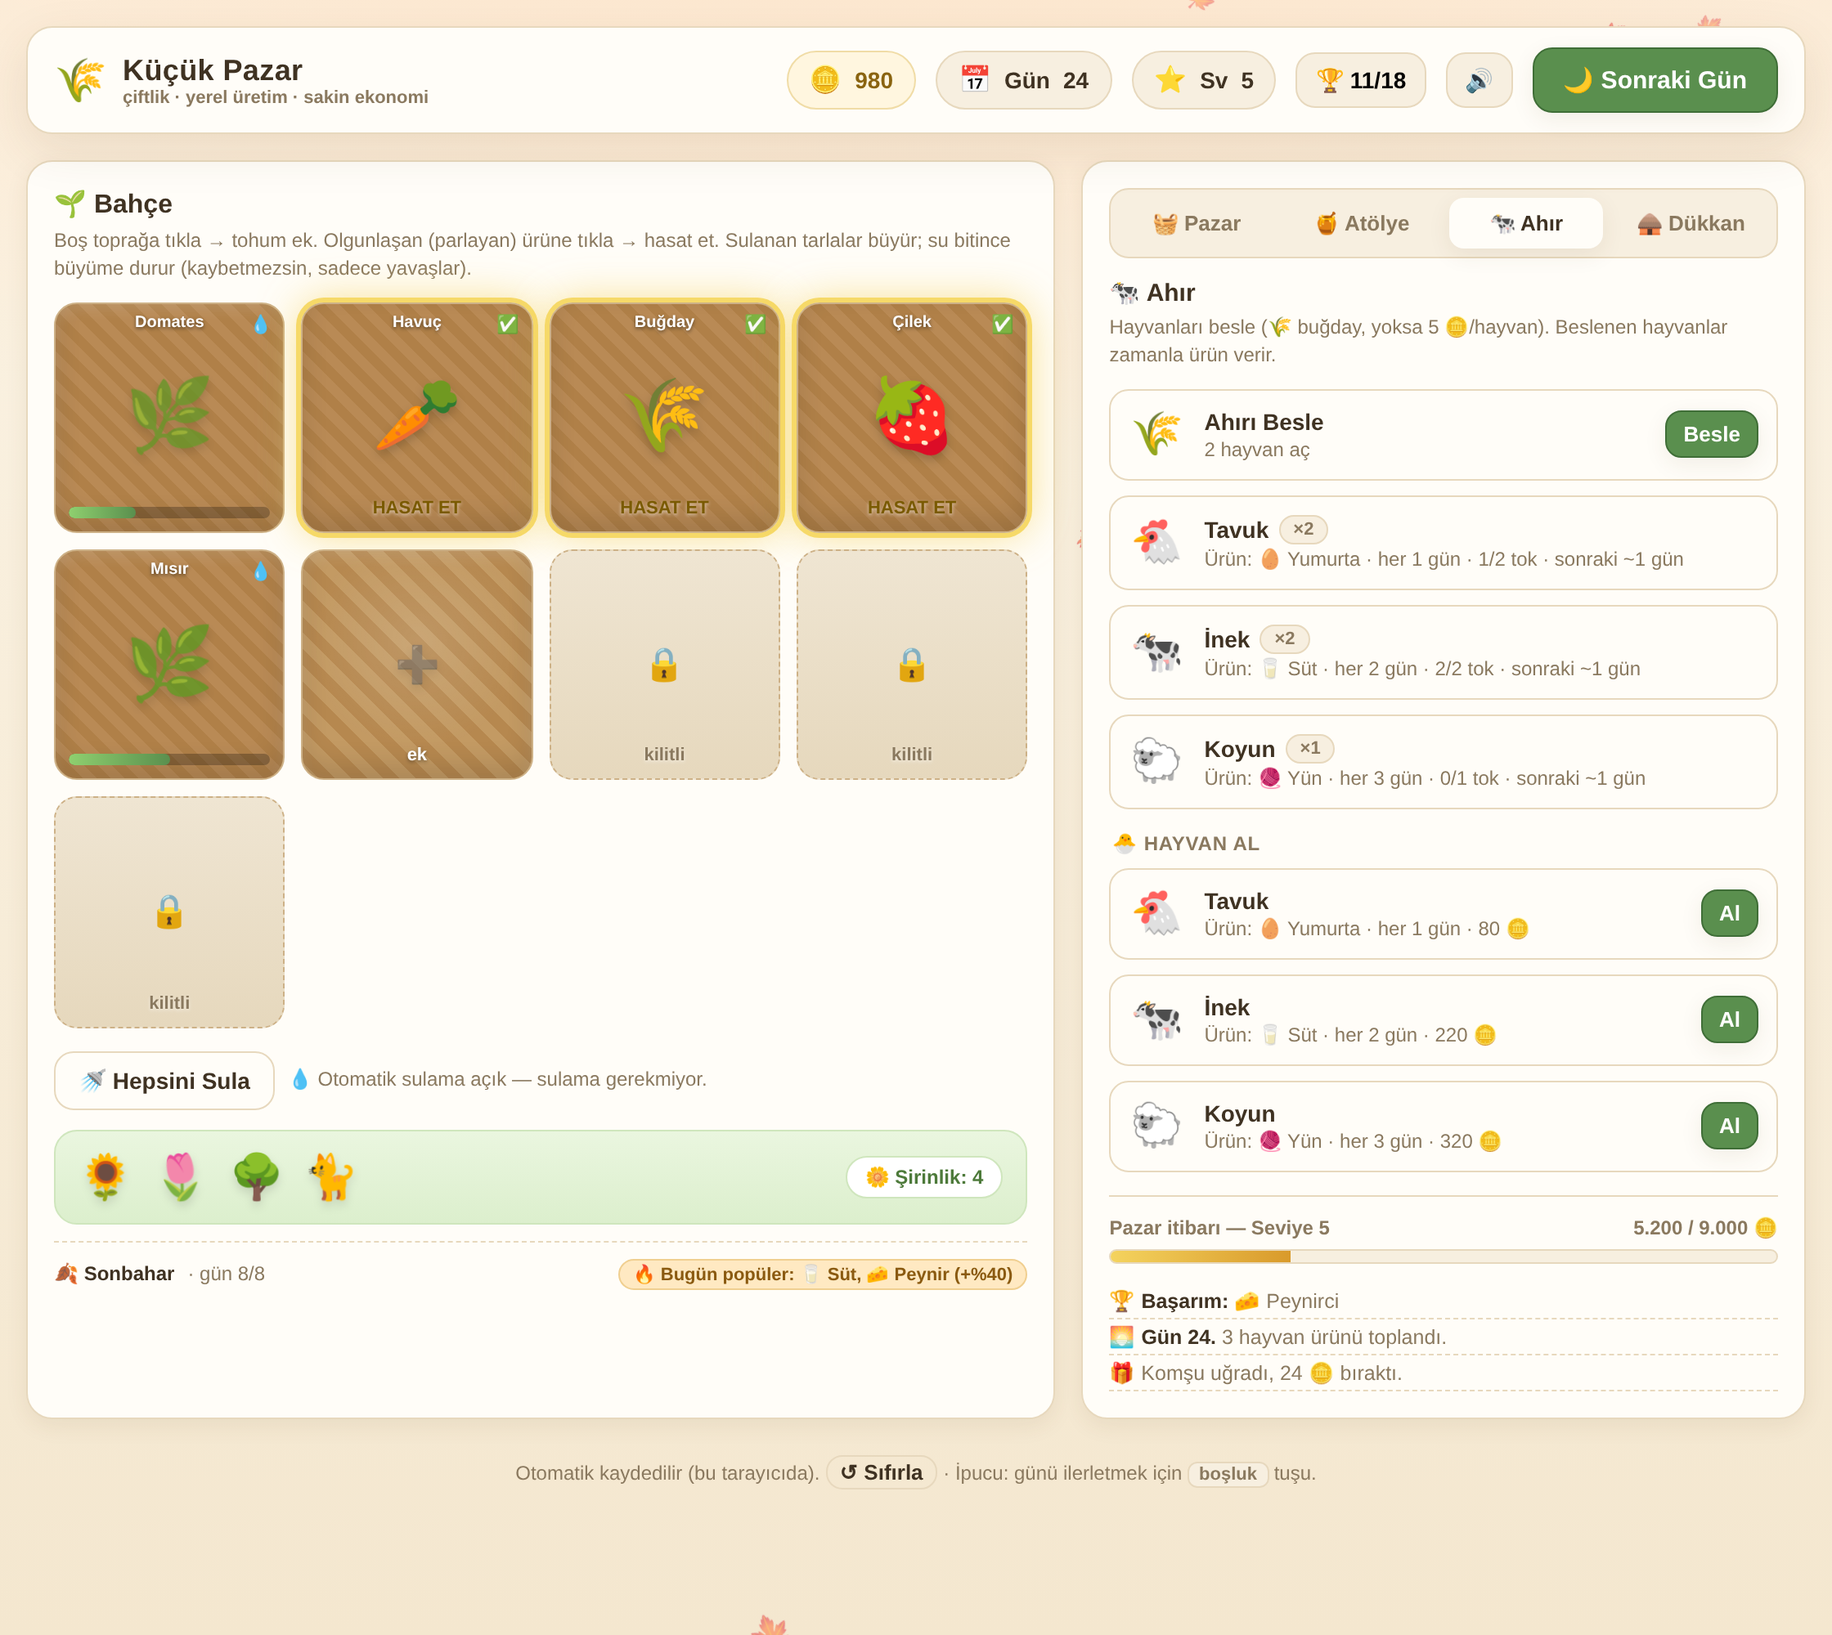
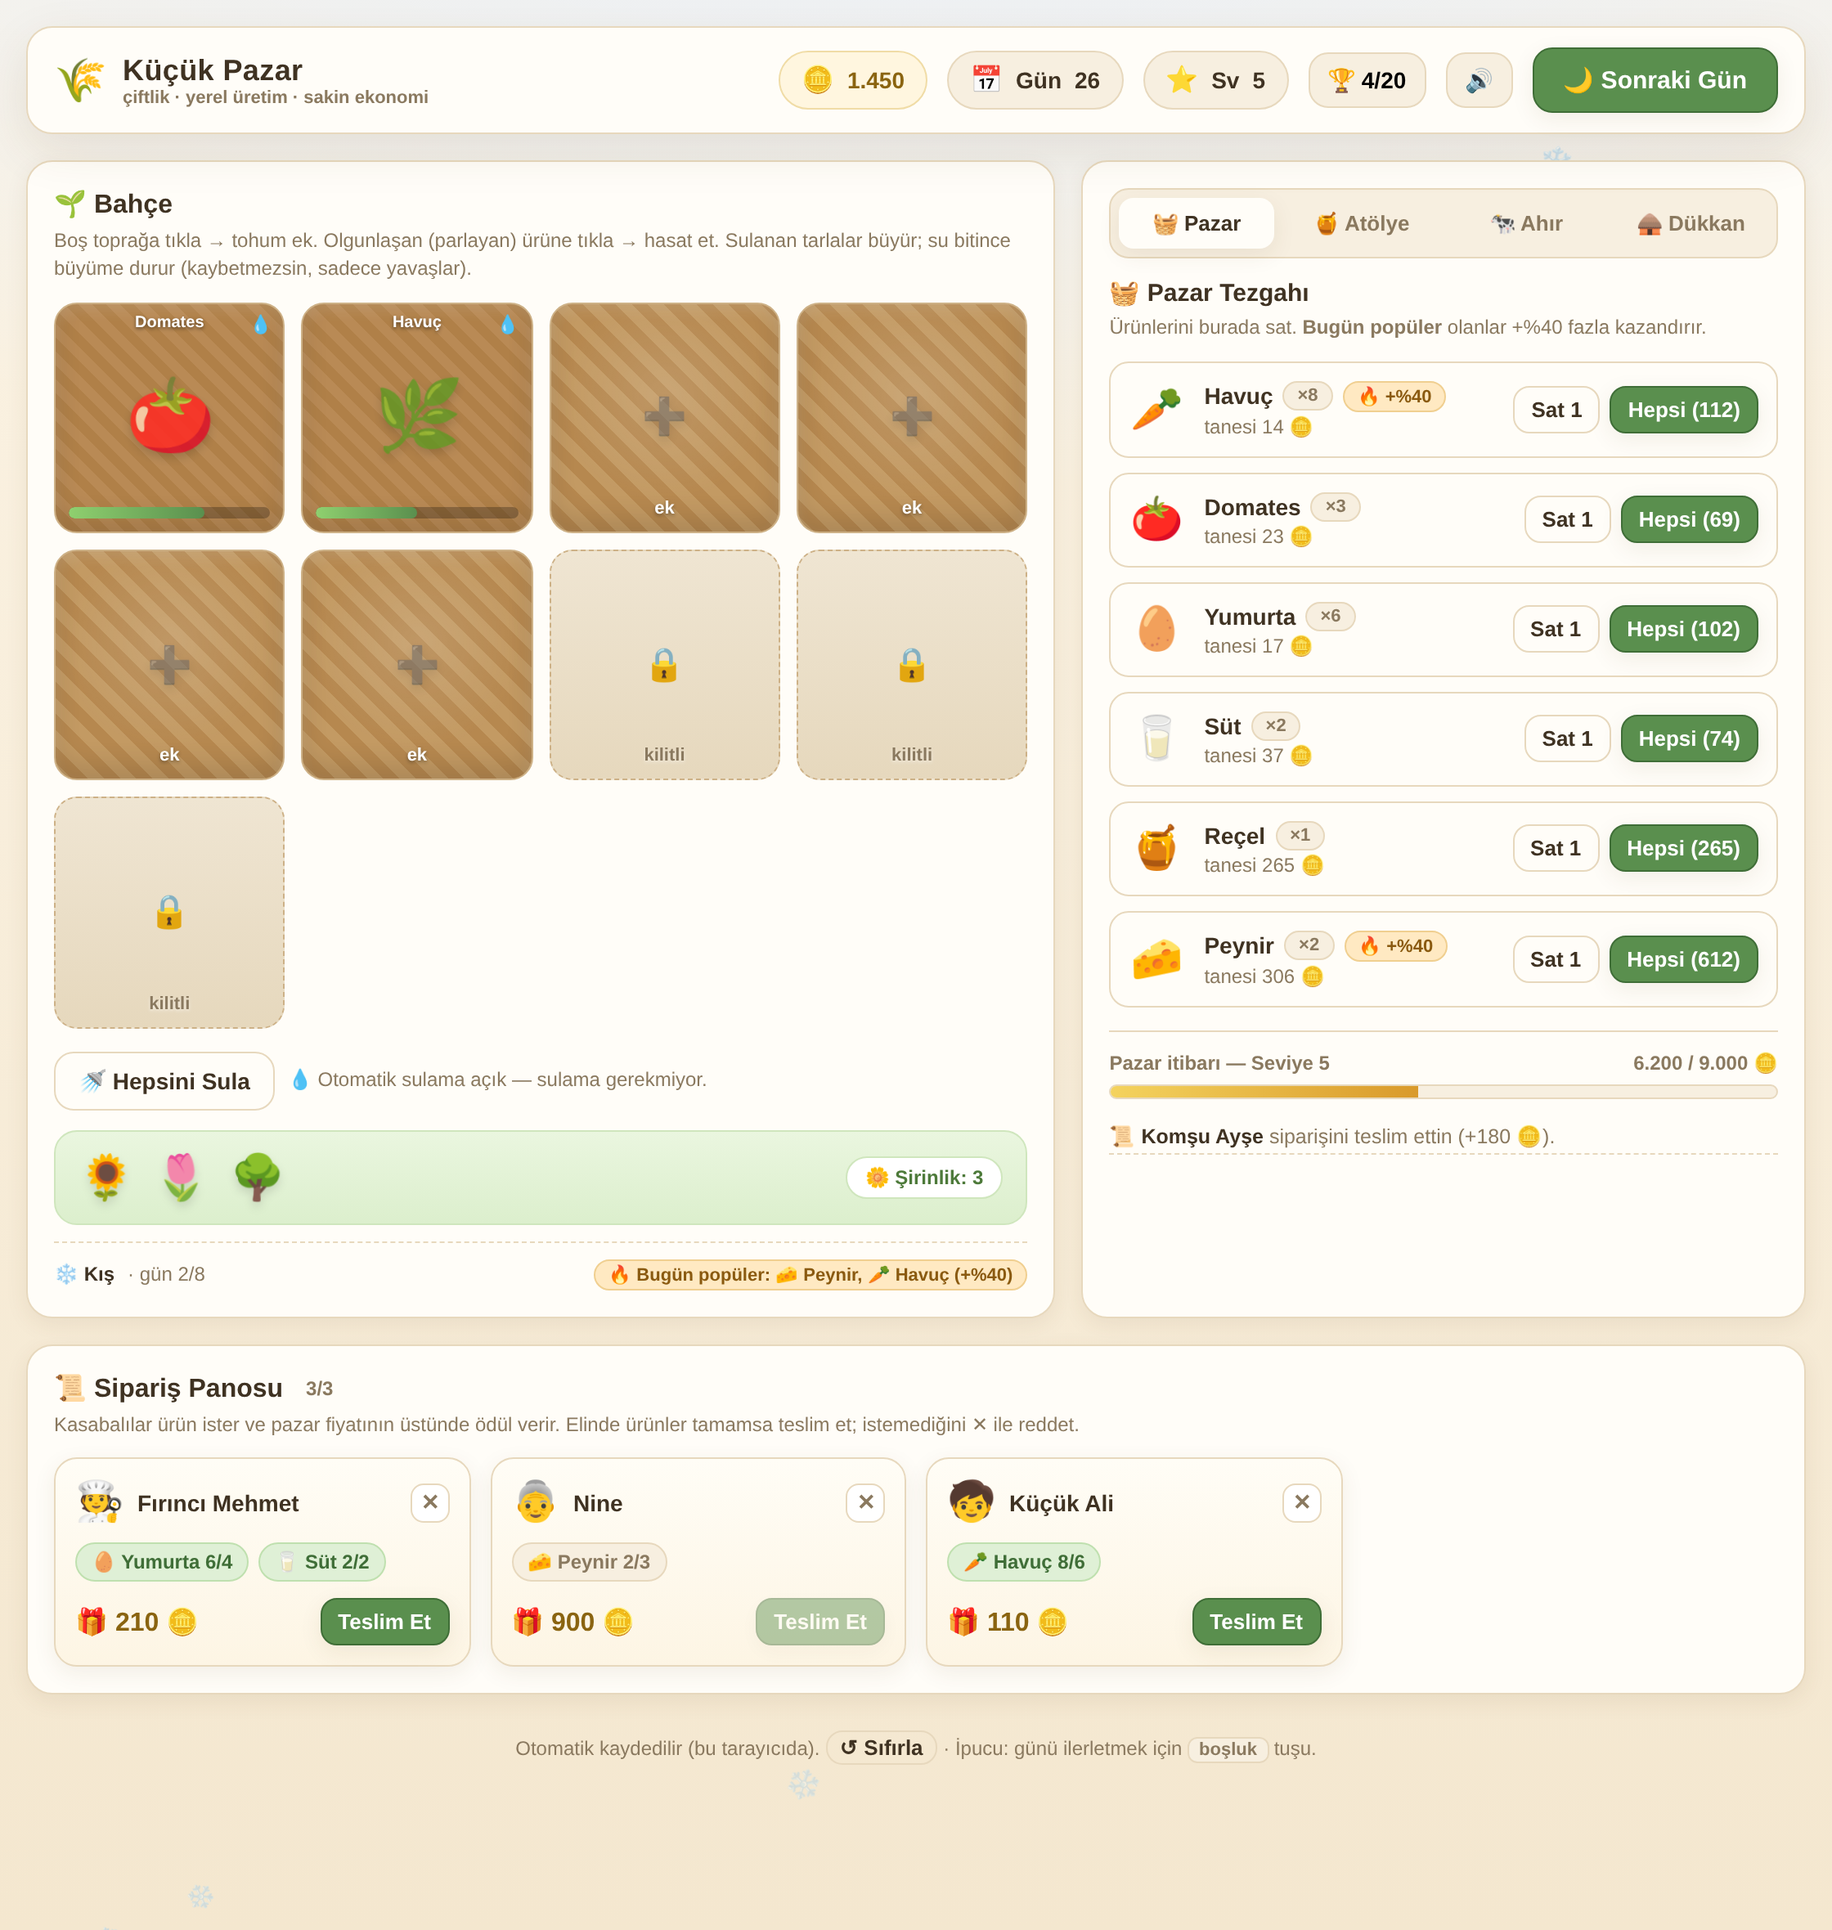
Add order board (town customers) to Küçük Pazar
New "📜 Sipariş Panosu" full-width panel that gives the game a goal loop:
- Townsfolk (baker, grandma, kid...) request 1-2 item types and pay ~1.5x
  market value; orders reference only items the player can currently produce
  (unlocked crops, animal products if barn, goods if kitchen)
- Fulfil when inventory covers the request (item chips turn green live);
  reward counts toward totalEarned so it feeds leveling
- Dismiss (✕) any unwanted order so the board never deadlocks; cap of 3 active
- New orders arrive on day advance (chance-based); one order seeded at start
- No timers, no penalty — cozy, pressure-free
- 2 new achievements (first order, 10 orders) → 20 total; save schema extended
  and normalized for backward compatibility

Smoke-tested end-to-end with Playwright (fill pays exact reward, dismiss,
cap-at-3, achievement unlock); basic/polish/barn flows re-verified, no errors.

Claude-Session: https://claude.ai/code/session_01JLhaX9PDeoKavNPVgfyLYf

diff --git a/cozy-farm-market/index.html b/cozy-farm-market/index.html
@@ -203,6 +203,22 @@
   .ach .at{ font-weight:800; font-size:13px; }
   .ach .ad{ font-size:11.5px; color:var(--muted); margin-top:1px; }
 
+  /* Order board */
+  .orders h2 .ocount{ font-size:12px; color:var(--muted); font-weight:800; margin-left:6px; }
+  .ogrid{ display:grid; grid-template-columns:repeat(auto-fill,minmax(230px,1fr)); gap:12px; }
+  .ocard{ border:1px solid var(--line); border-radius:14px; background:linear-gradient(180deg,#fffdf6,#fdf5e4); padding:12px; box-shadow:var(--shadow2); display:flex; flex-direction:column; gap:10px; }
+  .ohead{ display:flex; align-items:center; gap:8px; }
+  .ohead .oemoji{ font-size:24px; }
+  .ohead .oname{ font-weight:900; font-size:14px; }
+  .ohead .odismiss{ margin-left:auto; border:1px solid var(--line); background:#fff; border-radius:8px; width:24px; height:24px; cursor:pointer; font-weight:900; color:var(--muted); line-height:1; }
+  .ohead .odismiss:hover{ background:var(--soft); color:var(--ink); }
+  .oitems{ display:flex; flex-wrap:wrap; gap:6px; }
+  .oitem{ font-size:12px; font-weight:800; padding:4px 9px; border-radius:999px; background:var(--soft); border:1px solid var(--line); color:var(--muted); }
+  .oitem.ok{ background:#dff0d6; border-color:#bfe0af; color:#3f6e37; }
+  .ofoot{ display:flex; align-items:center; gap:8px; margin-top:auto; }
+  .oreward{ font-weight:900; color:#8a6410; }
+  .ofoot .btn{ margin-left:auto; }
+
   /* Modal */
   .scrim{ position:fixed; inset:0; background:rgba(60,40,15,.45); backdrop-filter:blur(3px); display:none; align-items:center; justify-content:center; z-index:60; padding:16px; }
   .scrim.on{ display:flex; }
@@ -301,6 +317,8 @@
     </div>
   </div>
 
+  <div class="panel orders" id="ordersPanel" style="margin-top:16px;"></div>
+
   <div class="foot">
     Otomatik kaydedilir (bu tarayıcıda). <button class="btn ghost small" id="resetBtn" style="padding:2px 8px;">↺ Sıfırla</button>
     · İpucu: günü ilerletmek için <span class="kbd">boşluk</span> tuşu.
@@ -355,6 +373,19 @@
     sheep:   { name:"Koyun", emoji:"🐑", cost:320, lvl:4, interval:3, prod:"wool" },
   };
 
+  // Sipariş panosu için kasabalılar
+  const CUSTOMERS = [
+    { name:"Komşu Ayşe",     emoji:"👩🌾" },
+    { name:"Fırıncı Mehmet", emoji:"🧑🍳" },
+    { name:"Nine",           emoji:"👵" },
+    { name:"Küçük Ali",      emoji:"🧒" },
+    { name:"Öğretmen",       emoji:"🧑🏫" },
+    { name:"Ressam",         emoji:"🧑🎨" },
+    { name:"Pazarcı Hasan",  emoji:"🧔" },
+    { name:"Doktor",         emoji:"🧑⚕" },
+  ];
+  const MAX_ORDERS = 3;
+
   const SEASONS = [
     { name:"İlkbahar", emoji:"🌷", p:"🌸" },
     { name:"Yaz",      emoji:"☀", p:"🦋" },
@@ -404,6 +435,8 @@
     { id:"barn1",     e:"🐄", t:"Ahır Sahibi",     d:"İlk hayvanını al",                 c:s=>s.animals.length>=1 },
     { id:"cheese",    e:"🧀", t:"Peynirci",        d:"Peynir üret",                      c:s=>!!s.stats.madeGoods.cheese },
     { id:"fullbarn",  e:"🐑", t:"Küçük Çiftlik",   d:"Her hayvandan en az bir tane al",  c:s=>Object.keys(ANIMALS).every(t=>s.animals.some(a=>a.type===t)) },
+    { id:"order1",    e:"📜", t:"İlk Sipariş",     d:"Bir kasaba siparişini teslim et",  c:s=>s.stats.ordersFilled>=1 },
+    { id:"order10",   e:"🛎", t:"Güvenilir Tedarikçi", d:"10 sipariş teslim et",         c:s=>s.stats.ordersFilled>=10 },
     { id:"allup",     e:"🏆", t:"Tam Donanım",     d:"Tüm yükseltmeleri al",             c:s=>Object.keys(UPGRADES).every(k=>s.up[k]) },
     { id:"earn20000", e:"👑", t:"Pazar Kralı",     d:"Toplam 20.000 altın kazan",        c:s=>s.totalEarned>=20000 },
   ];
@@ -417,14 +450,14 @@
     for (let i=0;i<9;i++) plots.push(newPlot(i<3));
     return {
       day:1, coins:55, totalEarned:0,
-      plots, crops:{}, goods:{}, jobs:[], animals:[],
+      plots, crops:{}, goods:{}, jobs:[], animals:[], orders:[],
       up:{ kitchen:false, sprinkler:false, stall:false, barn:false, autofeed:false, winery:false },
       plotCost:PLOT_BASE,
       popular:[], log:[], seenLevel:1,
       muted:false,
       decor:{},
       achieved:{},
-      stats:{ planted:0, harvested:0, sold:0, processed:0, harvestedTypes:{}, madeGoods:{} },
+      stats:{ planted:0, harvested:0, sold:0, processed:0, ordersFilled:0, harvestedTypes:{}, madeGoods:{} },
     };
   }
 
@@ -432,6 +465,7 @@
     s.decor = s.decor || {};
     s.achieved = s.achieved || {};
     s.animals = Array.isArray(s.animals) ? s.animals : [];
+    s.orders = Array.isArray(s.orders) ? s.orders : [];
     s.up = s.up || {};
     s.muted = !!s.muted;
     s.stats = s.stats || {};
@@ -439,6 +473,7 @@
     s.stats.harvested = s.stats.harvested||0;
     s.stats.sold = s.stats.sold||0;
     s.stats.processed = s.stats.processed||0;
+    s.stats.ordersFilled = s.stats.ordersFilled||0;
     s.stats.harvestedTypes = s.stats.harvestedTypes||{};
     s.stats.madeGoods = s.stats.madeGoods||{};
     return s;
@@ -718,6 +753,55 @@
     render(); save();
   }
 
+  // ---- Siparişler ----
+  function orderPool(){
+    const lvl = level(); const arr=[];
+    for(const id in CROPS) if(CROPS[id].lvl<=lvl) arr.push(id);
+    if(S.up.barn) for(const id in APROD) arr.push(id);
+    if(S.up.kitchen) for(const id in GOODS){ const g=GOODS[id]; if(g.lvl<=lvl && (!g.premium||S.up.winery)) arr.push(id); }
+    return arr;
+  }
+  function makeOrder(){
+    const pool = orderPool();
+    if(!pool.length) return null;
+    const want = (pool.length>=4 && Math.random()<0.5) ? 2 : 1;
+    const items=[], used={};
+    for(let i=0;i<want;i++){
+      let id, guard=0;
+      do{ id=pick(pool); guard++; } while(used[id] && guard<12);
+      if(used[id]) continue;
+      used[id]=true;
+      const val = infoOf(id).sell;
+      let qty = Math.round((Math.random()*2+2) * (val<40?1.5 : val<120?1 : 0.5));
+      qty = Math.max(2, Math.min(qty, 8));
+      items.push({ id:id, qty:qty });
+    }
+    const base = items.reduce((a,it)=> a + infoOf(it.id).sell*it.qty, 0);
+    const reward = Math.round(base*1.5) + 20;
+    return { id:"o"+Math.random().toString(36).slice(2,9), cust:pick(CUSTOMERS), items:items, reward:reward, day:S.day };
+  }
+  function canFill(o){ return o.items.every(it => (invBag(it.id)[it.id]||0) >= it.qty); }
+  function fillOrder(oid){
+    const idx = S.orders.findIndex(o=>o.id===oid); if(idx<0) return;
+    const o = S.orders[idx];
+    if(!canFill(o)){ toast("Elinde yeterli ürün yok"); return; }
+    for(const it of o.items){ const bag=invBag(it.id); bag[it.id]-=it.qty; if(bag[it.id]<=0) delete bag[it.id]; }
+    S.coins += o.reward; S.totalEarned += o.reward;
+    S.stats.ordersFilled = (S.stats.ordersFilled||0)+1;
+    S.orders.splice(idx,1);
+    SFX.coin(); celebrate(); bumpCoins();
+    addLog("📜 <b>"+o.cust.name+"</b> siparişini teslim ettin (+"+fmt(o.reward)+" 🪙).");
+    toast("📜 Sipariş tamam! +"+fmt(o.reward)+" 🪙", "gold");
+    checkLevel(); checkAchievements();
+    render(); save();
+  }
+  function dismissOrder(oid){
+    const idx = S.orders.findIndex(o=>o.id===oid); if(idx<0) return;
+    S.orders.splice(idx,1);
+    render(); save();
+    toast("Sipariş reddedildi");
+  }
+
   function checkLevel(){
     const lv = level();
     if(lv > S.seenLevel){
@@ -762,11 +846,18 @@
     S.day++;
     rollPopular();
 
+    let newOrder=false;
+    if(S.orders.length < MAX_ORDERS && Math.random() < 0.55){
+      const o = makeOrder();
+      if(o){ S.orders.push(o); newOrder=true; }
+    }
+
     const readyN = S.plots.filter(p=>p.crop && p.grown>=CROPS[p.crop].grow).length;
     let msg = "🌅 <b>Gün "+S.day+".</b> ";
     const bits=[];
     if(doneJobs) bits.push(doneJobs+" ürün atölyeden çıktı");
     if(producedBarn) bits.push(producedBarn+" hayvan ürünü toplandı");
+    if(newOrder) bits.push("yeni sipariş geldi 📜");
     if(readyN) bits.push(readyN+" tarla hasada hazır");
     msg += bits.length? bits.join(", ")+"." : "Sakin bir gün.";
     addLog(msg);
@@ -781,6 +872,7 @@
     SFX.day();
     checkAchievements();
     save(); render();
+    if(newOrder) toast("📜 Yeni sipariş panoda!");
     if(readyN) toast("🌿 "+readyN+" tarla hasada hazır!","good");
   }
 
@@ -807,6 +899,7 @@
     renderGarden();
     renderSeason();
     renderTab();
+    renderOrders();
     renderLevelBar(lvl);
     renderLog();
     $("waterHint").textContent = S.up.sprinkler ? "💧 Otomatik sulama açık — sulama gerekmiyor." : "";
@@ -863,6 +956,32 @@
       items = '<span class="ghint">🌿 Bahçen sade. <b>Dükkan → Bahçe Süsleri</b>\'nden süs ekleyerek şirinleştir.</span>';
     }
     el.innerHTML = items + '<span class="cozy">🌼 Şirinlik: '+coziness()+'</span>';
+  }
+
+  function renderOrders(){
+    const el = $("ordersPanel");
+    let cards = S.orders.map(o=>{
+      const items = o.items.map(it=>{
+        const have = invBag(it.id)[it.id]||0;
+        const ok = have>=it.qty;
+        return '<span class="oitem'+(ok?" ok":"")+'">'+itemEmoji(it.id)+' '+itemName(it.id)+' '+have+'/'+it.qty+'</span>';
+      }).join("");
+      const can = canFill(o);
+      return '<div class="ocard"><div class="ohead"><span class="oemoji">'+o.cust.emoji+'</span>'+
+        '<span class="oname">'+o.cust.name+'</span>'+
+        '<button class="odismiss" data-oact="dismiss" data-oid="'+o.id+'" title="Reddet" aria-label="Reddet">✕</button></div>'+
+        '<div class="oitems">'+items+'</div>'+
+        '<div class="ofoot"><span class="oreward">🎁 '+fmt(o.reward)+' 🪙</span>'+
+        '<button class="btn small primary" data-oact="fill" data-oid="'+o.id+'" '+(can?"":"disabled")+'>Teslim Et</button></div></div>';
+    }).join("");
+    if(!S.orders.length) cards = '<div class="emptxt">Şu an sipariş yok. Yeni müşteriler zamanla uğrar — günü ilerlet 📜</div>';
+    el.innerHTML = '<h2>📜 Sipariş Panosu <span class="ocount">'+S.orders.length+'/'+MAX_ORDERS+'</span></h2>'+
+      '<p class="hint">Kasabalılar ürün ister ve pazar fiyatının üstünde ödül verir. Elinde ürünler tamamsa teslim et; istemediğini ✕ ile reddet.</p>'+
+      '<div class="ogrid">'+cards+'</div>';
+    el.querySelectorAll("[data-oact]").forEach(b=>b.addEventListener("click", ()=>{
+      const a=b.dataset.oact, id=b.dataset.oid;
+      if(a==="fill") fillOrder(id); else if(a==="dismiss") dismissOrder(id);
+    }));
   }
 
   function renderSeason(){
@@ -1130,8 +1249,9 @@
 
   /* ============ BAŞLANGIÇ ============ */
   if(!S.popular || !S.popular.length) rollPopular();
+  if(!S.orders.length){ const o0=makeOrder(); if(o0) S.orders.push(o0); }
   if(!S.log.length){
-    addLog("👋 <b>Küçük Pazar'a hoş geldin!</b> Boş tarlaya tıkla, tohum ek, birkaç gün büyüt ve pazarda sat.");
+    addLog("👋 <b>Küçük Pazar'a hoş geldin!</b> Boş tarlaya tıkla, tohum ek, birkaç gün büyüt ve pazarda sat. Sipariş panosunda bir müşteri seni bekliyor 📜");
   }
   save();
   render();

diff --git a/cozy-farm-market/README.md b/cozy-farm-market/README.md
@@ -20,11 +20,14 @@ otomatik kaydedilir (localStorage).
    (buğday→ekmek, domates→sos, yaban mersini→reçel, üzüm→şarap, süt→peynir, yumurta→kek...).
 5. **🐄 Ahır** — Ahır alınca tavuk/inek/koyun besle; beslenen hayvanlar zamanla yumurta 🥚,
    süt 🥛, yün 🧶 verir. Yem olarak buğday (yoksa altın) harcanır — tarla ve ahır birbirine bağlı.
-6. **🛖 Dükkan** — Kazancı çiftliğe yatır: yeni tarla, mutfak, otomatik sulama, şirin tezgah
+6. **📜 Sipariş Panosu** — Kasabalılar (Fırıncı, Nine, Küçük Ali...) belirli ürünler ister ve
+   pazar fiyatının **üstünde** ödül verir. Elinde ürünler tamamsa "Teslim Et"; istemediğin
+   siparişi ✕ ile reddet. Süre sınırı ve ceza yok — sadece hoş bir hedef.
+7. **🛖 Dükkan** — Kazancı çiftliğe yatır: yeni tarla, mutfak, otomatik sulama, şirin tezgah
    (+%15 fiyat), ahır, otomatik yemlik, şaraphane (premium ürünler) ve **bahçe süsleri**.
 
 Toplam kazancın **Pazar itibarı** seviyeni yükseltir; her seviye yeni tohum, hayvan ve
-olanaklar açar. **🏆 Başarımlar** (15+) ve **🌼 Şirinlik** (süslerle artan) ilerlemene eşlik eder.
+olanaklar açar. **🏆 Başarımlar** (20) ve **🌼 Şirinlik** (süslerle artan) ilerlemene eşlik eder.
 
 ## Cila katmanı
 
@@ -49,13 +52,13 @@ Tümü `prefers-reduced-motion` açık olduğunda ağır animasyonları otomatik
 
 - Saf HTML/CSS/JS (vanilla), harici bağımlılık yok — çevrimdışı çalışır, CSP-güvenli.
 - Durum `localStorage` (`kucuk_pazar_v1` anahtarı) üzerinden kaydedilir; şema geriye dönük uyumlu.
-- İçerik veri-odaklı (`CROPS`, `APROD`, `ANIMALS`, `GOODS`, `UPGRADES`, `DECOR`, `ACHIEVEMENTS`,
-  `LEVELS`) — yeni ürün/hayvan/tarif/başarım eklemek kolay.
+- İçerik veri-odaklı (`CROPS`, `APROD`, `ANIMALS`, `GOODS`, `UPGRADES`, `DECOR`, `CUSTOMERS`,
+  `ACHIEVEMENTS`, `LEVELS`) — yeni ürün/hayvan/tarif/müşteri/başarım eklemek kolay.
 
 ## Sonraki adımlar (fikirler)
 
-- Kasaba müşterileri / özel siparişler (küçük hikâye dokunuşu)
 - Mevsime bağlı ürünler ve fiyat dalgalanması
 - Arı kovanı → bal, ek hayvan/ürün çeşitleri
 - Ekonomi denge ayarı ve zorluk eğrisi
+- Siparişlerde zaman/mevsim temalı özel istekler ve seri bonusları
 - "Koleksiyon defteri" ve haftalık pazar etkinlikleri
